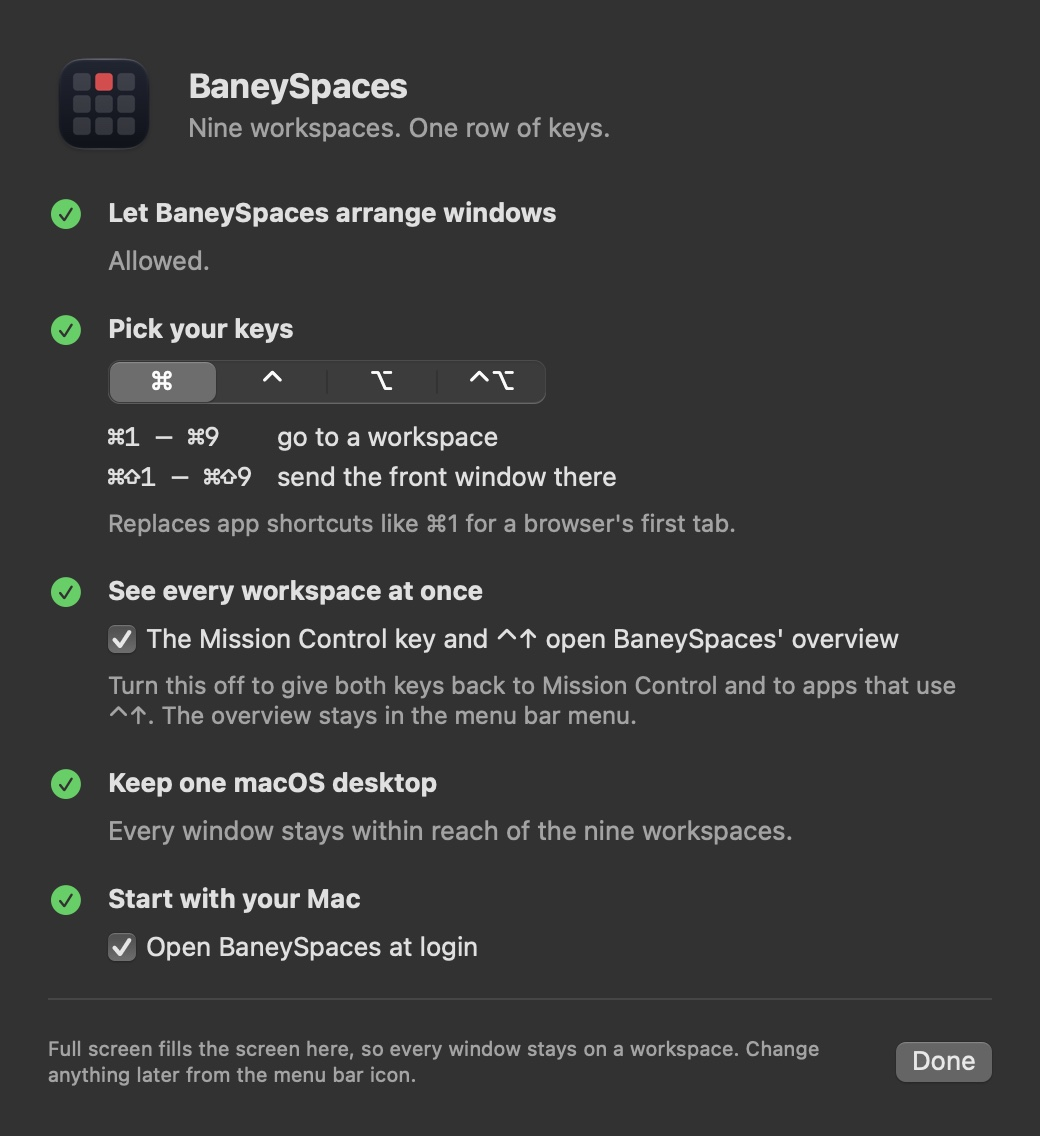
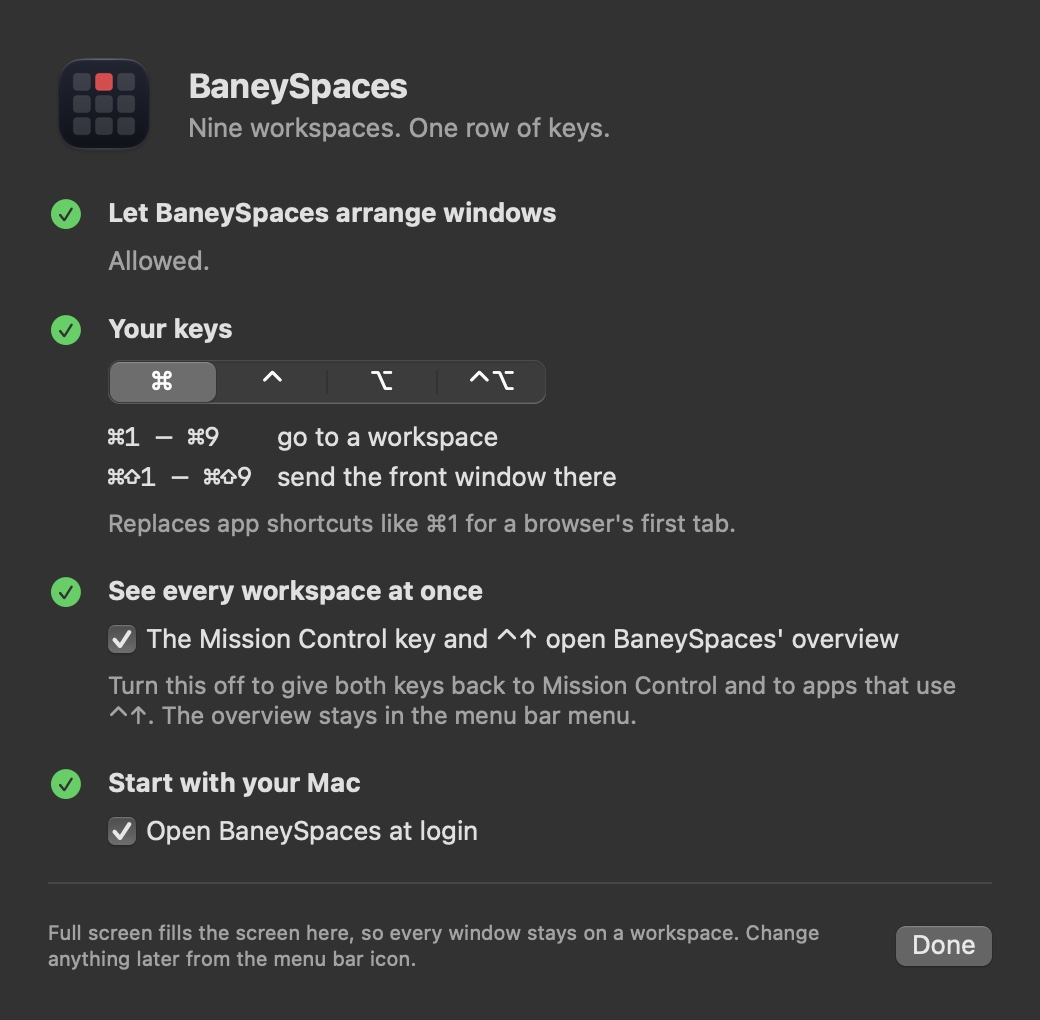
0.2.0: changelog, switch benchmark, refreshed setup shot

diff --git a/Sources/BaneySpaces/Windows.swift b/Sources/BaneySpaces/Windows.swift
@@ -63,58 +63,93 @@ struct Window {
     }
 }
 
+/// The regular apps that are running, kept current by launch and quit notifications instead of
+/// asking macOS about every app on every switch (about 12 ms each time).
+enum RunningApps {
+    private static var cached: Set<pid_t>?
+    private static var observing = false
+
+    static var regular: Set<pid_t> {
+        if !observing {
+            observing = true
+            let center = NSWorkspace.shared.notificationCenter
+            for name in [NSWorkspace.didLaunchApplicationNotification, NSWorkspace.didTerminateApplicationNotification] {
+                center.addObserver(forName: name, object: nil, queue: .main) { _ in cached = nil }
+            }
+        }
+        if let cached { return cached }
+        let me = getpid()
+        let set = Set(NSWorkspace.shared.runningApplications
+            .filter { $0.activationPolicy == .regular && !$0.isTerminated && $0.processIdentifier != me }
+            .map(\.processIdentifier))
+        cached = set
+        return set
+    }
+}
+
 enum Windows {
     /// Apps that stopped answering Accessibility, and until when to leave them alone. One hung
     /// app costs a full timeout per call; skipping it keeps every switch quick.
     private static var unresponsiveUntil: [pid_t: Date] = [:]
+    private static let unresponsiveLock = NSLock()
 
     static func isResponsive(_ pid: pid_t) -> Bool {
+        unresponsiveLock.lock(); defer { unresponsiveLock.unlock() }
         guard let until = unresponsiveUntil[pid] else { return true }
         if until < Date() { unresponsiveUntil[pid] = nil; return true }
         return false
     }
 
     static func markUnresponsive(_ pid: pid_t) {
+        unresponsiveLock.lock(); defer { unresponsiveLock.unlock() }
         unresponsiveUntil[pid] = Date().addingTimeInterval(5)
     }
 
     /// Every standard window of every regular app except BaneySpaces itself. Dialogs, panels,
-    /// popovers and windows on other macOS desktops are left alone.
-    static func all() -> [Window] {
-        let me = ProcessInfo.processInfo.processIdentifier
-        var out: [Window] = []
-        for app in NSWorkspace.shared.runningApplications
-        where app.activationPolicy == .regular && app.processIdentifier != me && !app.isTerminated
-            && isResponsive(app.processIdentifier) {
-            let ax = AXUIElementCreateApplication(app.processIdentifier)
+    /// popovers and windows on other macOS desktops are left alone. Apps are asked in parallel:
+    /// Accessibility answers each app separately, so a slow app no longer delays the rest.
+    static func all(owners: Set<pid_t>? = nil) -> [Window] {
+        // Only apps that own a window are asked. A running app with no windows is often frozen by
+        // macOS and never answers, which would cost a full timeout on every scan.
+        let candidates = owners.map { RunningApps.regular.intersection($0) } ?? RunningApps.regular
+        let apps = candidates.compactMap { pid -> (pid_t, String)? in
+            guard isResponsive(pid), let app = NSRunningApplication(processIdentifier: pid) else { return nil }
+            return (pid, app.localizedName ?? "App")
+        }
+        var results = [[Window]](repeating: [], count: apps.count)
+        let lock = NSLock()
+        DispatchQueue.concurrentPerform(iterations: apps.count) { i in
+            let (pid, name) = apps[i]
+            let ax = AXUIElementCreateApplication(pid)
             // A hung app must not hang every workspace switch.
             AXUIElementSetMessagingTimeout(ax, 0.25)
             let elements: [AXUIElement] = ax.value(kAXWindowsAttribute) ?? []
-            for el in elements {
-                guard let id = el.windowID,
-                      el.string(kAXSubroleAttribute) == kAXStandardWindowSubrole as String else { continue }
-                out.append(Window(id: id, element: el, pid: app.processIdentifier, appName: app.localizedName ?? "App"))
+            let found = elements.compactMap { el -> Window? in
+                guard let id = el.windowID, el.string(kAXSubroleAttribute) == kAXStandardWindowSubrole as String else { return nil }
+                return Window(id: id, element: el, pid: pid, appName: name)
             }
+            lock.lock(); results[i] = found; lock.unlock()
         }
-        return out
+        return results.flatMap { $0 }
     }
 
-    /// Every window the WindowServer has, on every macOS desktop. Accessibility can miss a window
-    /// (a busy app, another desktop); this list can't, so it decides whether a window still exists.
-    static func alive() -> Set<WindowID> { snapshot().alive }
+    static func alive() -> Set<WindowID> { snapshot(apps: RunningApps.regular).alive }
 
     /// Every window number, plus the ordinary app windows (layer 0) among them. When the layer-0
     /// set hasn't changed since the last look, no window was opened or closed, and the full
     /// Accessibility scan can be skipped.
-    static func snapshot() -> (alive: Set<WindowID>, appWindows: Set<WindowID>) {
+    static func snapshot(apps: Set<pid_t>) -> (alive: Set<WindowID>, appWindows: Set<WindowID>, owners: Set<pid_t>) {
         let info = CGWindowListCopyWindowInfo([.optionAll], kCGNullWindowID) as? [[String: Any]] ?? []
-        var alive = Set<WindowID>(), appWindows = Set<WindowID>()
+        var alive = Set<WindowID>(), appWindows = Set<WindowID>(), owners = Set<pid_t>()
         for w in info {
             guard let id = (w[kCGWindowNumber as String] as? NSNumber)?.uint32Value else { continue }
             alive.insert(id)
-            if (w[kCGWindowLayer as String] as? Int) == 0 { appWindows.insert(id) }
+            guard (w[kCGWindowLayer as String] as? Int) == 0,
+                  let pid = (w[kCGWindowOwnerPID as String] as? NSNumber)?.int32Value, apps.contains(pid) else { continue }
+            appWindows.insert(id)
+            owners.insert(pid)
         }
-        return (alive, appWindows)
+        return (alive, appWindows, owners)
     }
 
     /// The window that has keyboard focus, if it is one we manage.

diff --git a/Sources/BaneySpaces/Spaces.swift b/Sources/BaneySpaces/Spaces.swift
@@ -81,14 +81,16 @@ final class Spaces {
     /// per app, the slowest part of a switch) is skipped when no app window opened or closed
     /// and no app launched or quit since the last scan.
     func refresh(full: Bool = false) {
-        let snap = Windows.snapshot()
-        let pids = Set(NSWorkspace.shared.runningApplications
-            .filter { $0.activationPolicy == .regular && !$0.isTerminated }.map(\.processIdentifier))
+        let pids = RunningApps.regular
+        let snap = Windows.snapshot(apps: pids)
+        clock.mark(.snap)
         if !full, let last = lastScan, last.windows == snap.appWindows, last.pids == pids {
             prune(alive: snap.alive)
+            clock.scan = "skip"
             return
         }
-        let list = Windows.all()
+        clock.scan = lastScan == nil ? "first" : last(lastScan!, snap.appWindows, pids)
+        let list = Windows.all(owners: snap.owners)
         // Accessibility lists only the windows on the macOS desktop being shown. A window it
         // missed keeps the handle from an earlier listing; that handle still moves the window.
         var next = windows.filter { snap.alive.contains($0.key) }
@@ -97,7 +99,7 @@ final class Spaces {
         let added = model.sync(seen: list.map(\.id), alive: snap.alive)
         prune(alive: snap.alive)
         lastScan = (snap.appWindows, pids)
-        watcher.sync(pids.subtracting([getpid()]))
+        watcher.sync(pids)
         let screens = Windows.screens()
         // An app that autosaves its window position can reopen a window at the hiding spot.
         for id in added {
@@ -110,6 +112,12 @@ final class Spaces {
         for id in saved.frames.keys where model.workspace(of: id) == model.current {
             if let f = windows[id]?.frame, !Geometry.isStranded(f, screens: screens) { saved.frames[id] = nil }
         }
+    }
+
+    /// Why a full scan ran, for timing.log.
+    private func last(_ l: (windows: Set<WindowID>, pids: Set<pid_t>), _ w: Set<WindowID>, _ p: Set<pid_t>) -> String {
+        if l.pids != p { return "apps" }
+        return "windows+\(w.subtracting(l.windows).count)-\(l.windows.subtracting(w).count)"
     }
 
     private func prune(alive: Set<WindowID>) {
@@ -513,8 +521,9 @@ final class KeyablePanel: NSPanel {
 /// How long one switch takes, phase by phase. Appended to timing.log so speed changes are
 /// measured on real use, not guessed.
 struct SwitchClock {
-    enum Phase: String { case scanned, shown, focused, done }
+    enum Phase: String { case snap, scanned, shown, focused, done }
     var target = 0
+    var scan = "full"
     private let start = CFAbsoluteTimeGetCurrent()
     private var marks: [(Phase, Double)] = []
 
@@ -524,7 +533,7 @@ struct SwitchClock {
 
     func log(to url: URL) {
         let parts = marks.map { "\($0.0.rawValue)=\(Int($0.1.rounded()))" }.joined(separator: " ")
-        let line = "\(Int(Date().timeIntervalSince1970)) ws=\(target) \(parts)\n"
+        let line = "\(Int(Date().timeIntervalSince1970)) ws=\(target) scan=\(scan) \(parts)\n"
         var lines = ((try? String(contentsOf: url, encoding: .utf8)) ?? "").split(separator: "\n").map(String.init)
         lines.append(String(line.dropLast()))
         try? (lines.suffix(500).joined(separator: "\n") + "\n").write(to: url, atomically: true, encoding: .utf8)

diff --git a/Sources/BaneySpaces/Render.swift b/Sources/BaneySpaces/Render.swift
@@ -78,6 +78,16 @@ enum Render {
         setup.viewerKeys = true
         guard save(SetupView(model: setup, close: {}).background(Color(nsColor: .windowBackgroundColor)),
                    "setup.png", CGSize(width: 520, height: 0)) else { return 1 }
+        // The first thing a new person sees: permission not granted yet.
+        let fresh = SetupModel()
+        fresh.trusted = false
+        fresh.modifier = .command
+        fresh.conflicts = []
+        fresh.desktops = 1
+        fresh.openAtLogin = false
+        fresh.viewerKeys = true
+        guard save(SetupView(model: fresh, close: {}).background(Color(nsColor: .windowBackgroundColor)),
+                   "setup-first-run.png", CGSize(width: 520, height: 0)) else { return 1 }
         return 0
     }
 }

diff --git a/CHANGELOG.md b/CHANGELOG.md
@@ -1,5 +1,29 @@
 # Changelog
 
+## 0.2.0 (2026-10-10)
+
+Faster switching, an easier first run, and fixes from an adversarial review.
+
+- **Switching is about six times faster.** A switch that changes nothing on screen dropped from a
+  91 ms median to about 15 ms; a real switch takes 20–50 ms. Background apps hide at once, only
+  the app in front waits for focus to move (checked every 10 ms), the window scan is skipped when
+  no window opened or closed, apps are asked in parallel, and apps with no windows aren't asked
+  at all. `make bench` fails if the median goes over 40 ms.
+- **A small HUD** shows the workspace grid for half a second on every keyboard switch, and the
+  menu bar number changes the moment you press the key.
+- **Setup is one button.** Allow BaneySpaces puts it in the Accessibility list and opens the
+  right page; setup notices the switch within a quarter second, confirms, and closes itself.
+  Fix Permission repairs a permission macOS kept from an older copy.
+- **Losing permission is safe.** BaneySpaces gives your keys back, shows every window and app,
+  and starts again when permission returns.
+- Typing can no longer land in a hidden window after ⌘W or ⌘` moves focus inside an app.
+- Rapid presses land on the last workspace pressed instead of replaying each one.
+- A hung app is skipped for 5 seconds instead of stalling every switch; a window that refuses to
+  leave full screen is no longer asked again on every desktop change.
+- Display changes keep focus where it is. Restores move a window without resizing it.
+- AeroSpace, Login Items approval and freed screenshot shortcuts are handled in setup, and the
+  uninstaller turns the shortcuts back on and clears the permission.
+
 ## 0.1.0 · 2026-10-10
 
 The first release.
